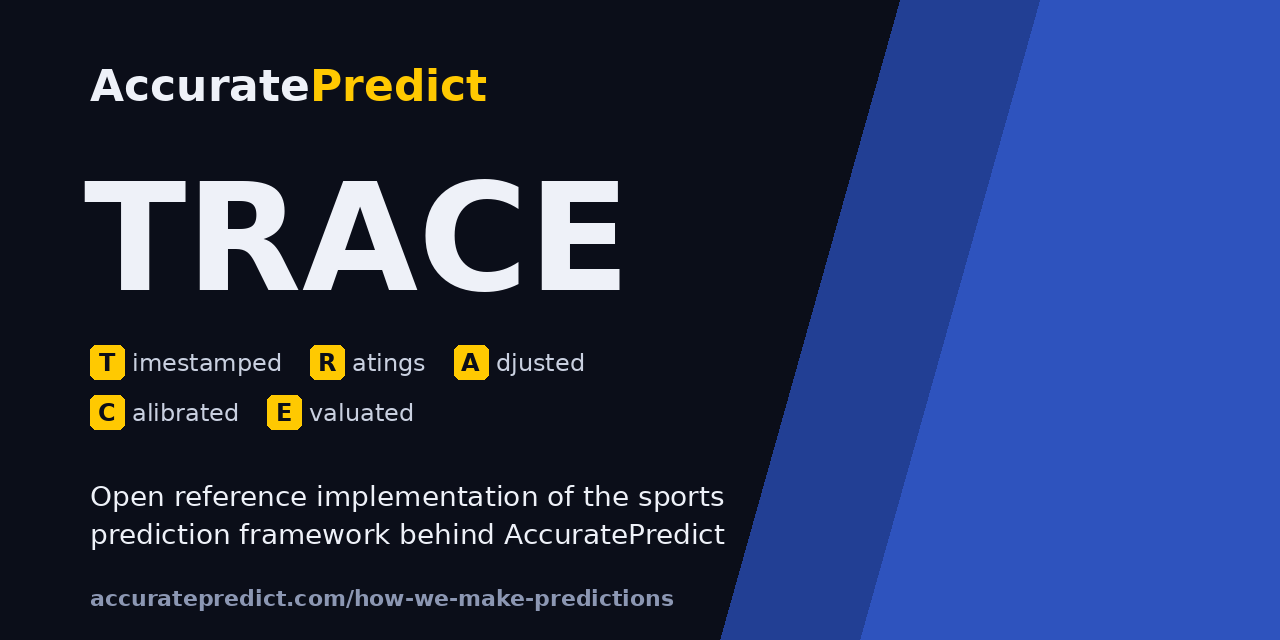
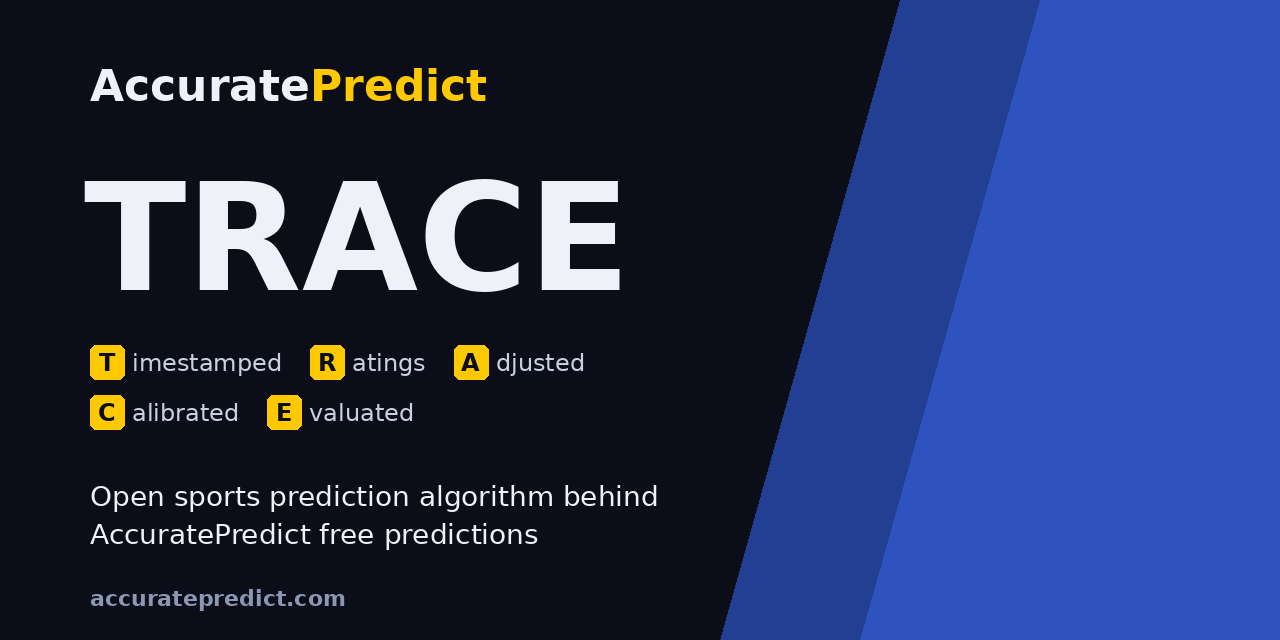
Link to accuratepredict.com until the new site pages are live

Changed region(s): [[0.0625, 0.75, 0.5625, 0.875], [0.2812, 0.9062, 0.5312, 0.9688]]

diff --git a/README.md b/README.md
@@ -1,5 +1,5 @@
 <p align="center">
-  <a href="https://accuratepredict.com/how-we-make-predictions">
+  <a href="https://accuratepredict.com">
     <img src=".github/social-preview.png" alt="AccuratePredict TRACE: Timestamped, Ratings, Adjusted, Calibrated, Evaluated" width="720">
   </a>
 </p>
@@ -23,9 +23,7 @@ It is a skeleton, not the production engine. The structure and the methods are
 real. The tuned parameters, the data pipeline and the production models stay
 private. See [What is not in this repository](#what-is-not-in-this-repository).
 
-- **Read the method in plain English:** [How we make predictions](https://accuratepredict.com/how-we-make-predictions)
-- **See the live record, wins and losses:** [Prediction accuracy](https://accuratepredict.com/prediction-accuracy)
-- **Today's predictions:** [accuratepredict.com/predictions](https://accuratepredict.com/predictions)
+- **Free predictions, the method and the live record:** [accuratepredict.com](https://accuratepredict.com)
 
 ---
 
@@ -183,7 +181,7 @@ that took the most work to get right are not published:
 
 The way to judge the production system is its record, which is public:
 every call is timestamped before the match and stays on the site next to the
-final score, at [accuratepredict.com/prediction-accuracy](https://accuratepredict.com/prediction-accuracy).
+final score, at [accuratepredict.com](https://accuratepredict.com).
 
 ## FAQ
 
@@ -210,7 +208,7 @@ AccuratePredict or TRACE names or logos; see [NOTICE](NOTICE).
 Not on its own, and no method can promise that. A 62 percent prediction is expected to lose nearly four
 times in ten. TRACE is about stating probabilities honestly and proving them
 over time, not about certainty. If you bet, set limits and see the
-[responsible gambling](https://accuratepredict.com/responsible-gambling) page. 18+ only.
+responsible gambling page on [accuratepredict.com](https://accuratepredict.com). 18+ only.
 
 **Why not publish everything?**
 Publishing the framework lets anyone check that the method is sound.
@@ -226,7 +224,7 @@ teaching, you can:
 - **Sponsor** the project through the Sponsor button at the top of this page
 - **Star** the repository so others find it
 - **Contribute** tests, documentation or new rating models (see [CONTRIBUTING](CONTRIBUTING.md))
-- **Partner with us** on data, research or distribution through [accuratepredict.com/contact](https://accuratepredict.com/contact)
+- **Partner with us** on data, research or distribution through [accuratepredict.com](https://accuratepredict.com)
 
 ## Citing TRACE
 
@@ -242,9 +240,8 @@ https://github.com/accuratepredict/accuratepredict-trace-sports-prediction-algor
 ## About AccuratePredict
 
 [AccuratePredict](https://accuratepredict.com) publishes free predictions
-across football and nine other sports, with a free
-[bet code converter](https://accuratepredict.com/convert-bet-codes) and
-[free booking codes](https://accuratepredict.com/free-booking-codes).
+across football and nine other sports, with a free bet code converter
+and free booking codes.
 It is operated by African Sporting Technology Ltd. Every prediction is
 produced by a model, not a tipster, and every settled call stays published,
 wins and losses alike.

diff --git a/docs/METHODOLOGY.md b/docs/METHODOLOGY.md
@@ -1,8 +1,8 @@
 # The TRACE methodology
 
 The plain-English version, written for readers rather than developers, is on
-the AccuratePredict site:
-**[How we make predictions](https://accuratepredict.com/how-we-make-predictions)**.
+the AccuratePredict site,
+**[accuratepredict.com](https://accuratepredict.com)**.
 This note maps each part of it to the code in this repository.
 
 ## T: Timestamped (`timestamp.py`)
